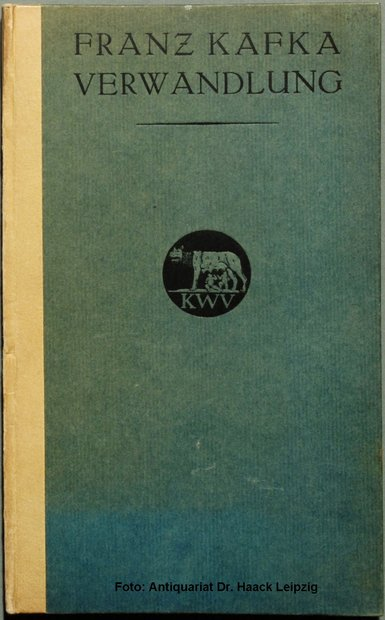
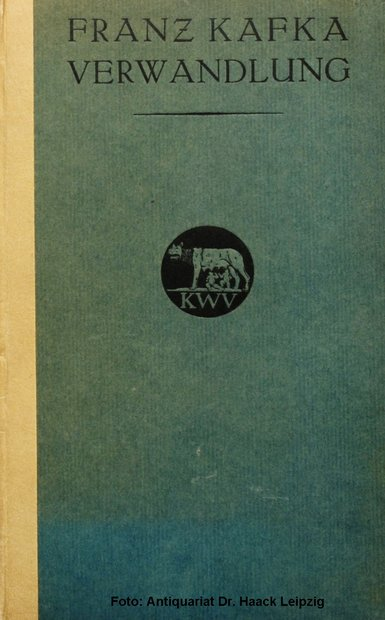
fix(art)+qa: blind A/B round-1 repairs — ink wins the cascade, real Tagore hand
Round 1 verdict was split (designer→baseline on a hierarchy regression;
art-director→candidate conditional), so the candidate failed the pre-set
pass rule. Every finding traced and repaired:

- Slip labels rendered EMPTY: pre-R10 state classes (and the late-declared
  work base rule) still painted light-on-dark text tones over the new paper
  chips, winning the cascade. All slip genres now resolve to ink; hover/
  selected modulate weight and a vermilion underline (new --slip-ink-strong /
  --vermilion tokens keep the token lint green).
- Selected-center stack: the collector's slip drops below the 감상인 frame
  into the dial's empty lower interior; the halo disc is silenced for the
  selected mark-bearer.
- Tagore's mark was an illegible traced scribble: rebuilt from the real 1920
  Bengali ink signature scan (Commons, PD) — bold, authentic strokes.
- Cover scans shaved 2.5%/side: catalog borders read as loose polaroids.

Protocol + round-1 verdicts recorded in art-r10/ab-review-protocol.md.

Changed region(s): [[0.0, 0.0, 1.0, 1.0], [0.4052, 0.3371, 0.6857, 0.521], [0.4987, 0.7048, 0.5299, 0.7355]]

diff --git a/literary-planet/src/globe/renderer.ts b/literary-planet/src/globe/renderer.ts
@@ -1625,6 +1625,8 @@ export function createGlobe(
 
   const tmpM = new THREE.Matrix4();
   const tmpV = new THREE.Vector3();
+  const tmpUp = new THREE.Vector3();
+  const tmpV2 = new THREE.Vector3();
   const hidden = new THREE.Matrix4().makeScale(0, 0, 0);
 
   function nodeVisible(a: Author): boolean {
@@ -1683,8 +1685,13 @@ export function createGlobe(
       const dimmed =
         s.selectedAuthorId !== null && id !== s.selectedAuthorId && !castSet.has(id);
       // the selected star's halo bows out with its emblem at reading depth —
-      // a soft blob over the towns was the last poster left (8th review)
-      const haloFade = id === s.selectedAuthorId ? 1 - nearGlyphK() : 1;
+      // a soft blob over the towns was the last poster left (8th review).
+      // A/B round 1: when the author's real mark is on the ground, the halo
+      // disc is one competitor too many under the 감상인 frame — silence it
+      // for the selected mark-bearer at every depth.
+      const selHasMark =
+        id === s.selectedAuthorId && Boolean(sealSprites.get(id)?.userData.isMark);
+      const haloFade = selHasMark ? 0.12 : id === s.selectedAuthorId ? 1 - nearGlyphK() : 1;
       (sprite.material as THREE.SpriteMaterial).opacity = (dimmed ? 0.1 : 0.32) * haloFade;
     }
 
@@ -2180,6 +2187,18 @@ export function createGlobe(
       if (regionRep?.get(a.regions[0] ?? "") === a.id) priority += 28;
       tmpV.set(p[0] * R, p[1] * R, p[2] * R).project(camera);
       if (tmpV.z > 1) continue;
+      let ly = ((-tmpV.y + 1) / 2) * h + 7;
+      if (state === "selected" && sealSprites.get(a.id)?.userData.isMark) {
+        // A/B round 1: the collector's slip goes UNDER the 감상인 frame, not
+        // across the signature — drop it into the dial's empty lower interior
+        // (frame half-height 1.95 < 2.8 < dial inner radius ~3.8 world units)
+        tmpUp.setFromMatrixColumn(camera.matrixWorld, 1);
+        tmpV2
+          .set(p[0] * R, p[1] * R, p[2] * R)
+          .addScaledVector(tmpUp, -2.8)
+          .project(camera);
+        if (tmpV2.z <= 1) ly = Math.max(ly, ((-tmpV2.y + 1) / 2) * h);
+      }
       items.push({
         id: a.id,
         text: i18n.authorLabel(a, s.locale),
@@ -2187,7 +2206,7 @@ export function createGlobe(
         size: a.tier === "anchor" ? "md" : "sm",
         priority,
         x: ((tmpV.x + 1) / 2) * w,
-        y: ((-tmpV.y + 1) / 2) * h + 7,
+        y: ly,
         state
       });
     }

diff --git a/literary-planet/src/styles.css b/literary-planet/src/styles.css
@@ -52,7 +52,9 @@
   /* R10 paper-planet: letterpress label slips + album mounts */
   --slip-bg: rgba(233, 223, 196, 0.92);
   --slip-ink: #2b2015;
+  --slip-ink-strong: #140e08;
   --slip-line: rgba(43, 32, 21, 0.4);
+  --vermilion: #c0392e; /* 감상인 — the selection channel's only user */
   --mount-shadow: rgba(0, 0, 0, 0.5);
   --debug-bg: rgba(10, 15, 18, 0.92);
   --debug-dim: #7d8a86;
@@ -668,6 +670,45 @@ a:hover {
   opacity: 0.62;
 }
 
+/* Slip-genre state colors (blind A/B round 1 finding): the pre-R10 state
+   classes painted light-on-dark text tones, which on paper chips rendered
+   as EMPTY slips — neighbors were literally blank beside their seals. On a
+   slip, state modulates ink weight and chip presence, never ink-to-light.
+   Same class pairs, declared later, so the cascade lands on ink. */
+.globe-label--author.is-normal,
+.globe-label--relation {
+  color: var(--slip-ink);
+}
+
+.globe-label--author.is-dim {
+  color: var(--slip-ink);
+}
+
+.globe-label--author.is-neighbor {
+  color: var(--slip-ink);
+  font-weight: 600;
+}
+
+.globe-label--author.is-hovered {
+  color: var(--slip-ink-strong);
+  font-weight: 600;
+  border-color: var(--slip-ink);
+}
+
+.globe-label--author.is-selected,
+.globe-label--work.is-selected {
+  color: var(--slip-ink);
+  font-weight: 700;
+  text-shadow: none;
+  border-bottom: 2px solid var(--vermilion);
+}
+
+.globe-label--work.is-interactive:hover,
+.globe-label--work.is-interactive:focus-visible {
+  color: var(--slip-ink-strong);
+  text-shadow: none;
+}
+
 /* R10 archival portrait mount: the photograph is pasted into the album */
 .portrait-plate--archival .portrait-mount {
   position: relative;
@@ -825,7 +866,9 @@ a:hover {
   font-style: italic;
   font-size: 13px; /* was 11.5 — floor */
   letter-spacing: 0.04em;
-  color: var(--text-dim);
+  /* slip ink, declared HERE: this base rule sits after the R10 slip block,
+     so an ink override there silently loses the cascade (A/B round 1 bis) */
+  color: var(--slip-ink);
   opacity: 0.9;
 }
 

diff --git a/literary-planet/art-r10/build-art-assets.py b/literary-planet/art-r10/build-art-assets.py
@@ -51,16 +51,26 @@ def save_mark(author, im, target_h=420):
 
 
 # --- marks -------------------------------------------------------------------
-# Kafka / Tagore: rasterized signature SVGs (black strokes, transparent bg)
-for author, raw in (
-    ("franz-kafka", "franz-kafka-signature.png"),
-    ("rabindranath-tagore", "rabindranath-tagore-signature.png"),
-):
+# Kafka: rasterized signature SVG (black strokes, transparent bg)
+for author, raw in (("franz-kafka", "franz-kafka-signature.png"),):
     im = Image.open(os.path.join(RAW, raw)).convert("RGBA")
     # recolor strokes to warm ink, keep the anti-aliased alpha
     solid = Image.new("RGBA", im.size, INK + (255,))
     solid.putalpha(im.getchannel("A"))
     save_mark(author, solid)
+
+# Tagore: the traced SVG reads as scribble at map scale (A/B round 1 verdict)
+# — use the REAL 1920 Bengali ink signature scan instead: authentic stroke
+# weight and density carry the hand where the thin trace could not.
+tagore = Image.open(os.path.join(ST, "rabindranath-tagore", "signature_bengali_1920.jpg")).convert("RGB")
+tagore = ImageOps.autocontrast(tagore, cutoff=1)
+def scan_ink_alpha(im, thresh=190, ramp=2.2):
+    g = ImageOps.grayscale(im)
+    a = g.point(lambda v: min(255, int((thresh - v) * ramp)) if v < thresh else 0)
+    out = Image.new("RGBA", im.size, INK + (0,))
+    out.putalpha(a)
+    return out
+save_mark("rabindranath-tagore", tight_bbox(scan_ink_alpha(tagore)))
 
 # Soseki: brush signature 漱石 + the two red kanji seals, cut from the real
 # hanging-scroll scan (320×1089). Ink becomes tintless warm-black; the seal
@@ -131,6 +141,10 @@ COVERS = {
 }
 for work, (rel, lic) in COVERS.items():
     im = Image.open(os.path.join(ST, rel)).convert("RGB")
+    # shave scan margins (2.5%/side) — white catalog borders read as loose
+    # polaroids on the boards instead of printed covers (A/B round 1)
+    mx, my = round(im.width * 0.025), round(im.height * 0.025)
+    im = im.crop((mx, my, im.width - mx, im.height - my))
     im.thumbnail((420, 620), Image.LANCZOS)
     f = f"covers/{work}.jpg"
     im.save(os.path.join(OUT, f), quality=85)

diff --git a/literary-planet/art-r10/ab-review-protocol.md b/literary-planet/art-r10/ab-review-protocol.md
@@ -1,0 +1,68 @@
+# R10 blind A/B visual review — protocol
+
+Two capture sets, identical choreography (`art-r10/capture-slice.mjs`,
+3 slice authors × far/mid/near, same deep links, same waits):
+
+- **set-x** = candidate (paper-planet build; reviewers are NOT told this)
+- **set-y** = baseline (frozen functional build @1d00a28; not told either)
+
+Blinding: frames are copied to a neutral session directory (`ab-review/set-x`,
+`ab-review/set-y`) so no path or filename reveals which set is which, and the
+set→build mapping above is withheld from reviewers (it is recorded here for
+the audit trail only). x/y assignment is anti-chronological on purpose, to
+counter any "the second set must be the newer one" guess.
+
+Reviewers: 2 independent fresh-context agents (graphic-designer,
+visual-art-director), no implementation notes, no repo access instructions —
+images only. Neither sees the other's verdict.
+
+Questions (per author, comparing the same LOD pair across sets, then overall):
+
+1. 위계 — 어느 세트에서 "이 화면의 제1주인공"과 "다음에 할 행동"이 더 빨리
+   읽히는가?
+2. 의미 — 어느 세트가 "여기는 다른 곳 아닌 바로 이 작가의 영토"임을 더
+   구체적으로 전달하는가? 화면의 형태·색·높이 가운데 정보를 나르지 않는
+   장식이 있으면 지적하라.
+3. 미감 — 어느 쪽이 출시 가능한 미감에 가까운가? 약점을 세트별로 최소 1개씩.
+4. 종합 — X/Y 중 하나를 고르고 이유를 서술하라. 무승부 금지.
+
+Pass rule (set in advance): the candidate ships only if BOTH reviewers pick
+its set on question 4 AND neither finds a hierarchy regression (question 1)
+in any pair. Weaknesses found in the winning set are recorded as follow-ups,
+not silently dropped.
+
+## Results
+
+### Round 1 (2026-08-18) — SPLIT 1:1 → candidate FAILS the pre-set rule
+
+- graphic-designer → **Y (baseline)**. Decisive finding: in all three mid
+  frames the candidate's neighbor/bystander label slips rendered as EMPTY
+  paper chips — a hierarchy regression ("다음 행동이 안 읽히는 건 기능
+  결함"). Root cause (found in code after the verdict): pre-R10 state
+  classes (`.is-neighbor`/`.is-dim`/`.is-normal`) still painted
+  light-on-dark text tones over the new light slips at higher cascade
+  priority. A bug, not an inherent trade-off of the direction.
+- visual-art-director → **X (candidate), conditional**. "3번 중 2번 성공한
+  완성도 문제이지 콘셉트 실패가 아니다." Conditions: (1) Tagore's mark is
+  an illegible scribble — replace with real handwriting; (2) reduce the
+  selected-center stack (signature+frame+dial+slip+disc); (3) unify the
+  work-marker language. Also caught a BASELINE bug (unframed 魯 glyph
+  leaking at screen edge in set-y natsume-soseki-1mid) — evidence the
+  reviewer was genuinely blind.
+- Both agreed the candidate's place-specificity (real hands, real paper,
+  culture-correct marks) is ahead; both located the loss in execution,
+  not concept. The designer's own synthesis suggestion ("Y의 라벨 프레임
+  안에 X의 장소 텍스처") is exactly what fixing the label bug yields.
+
+Repairs before round 2: slip-genre state colors re-inked (authors, works,
+relations); collector's slip moved below the 감상인 frame; halo disc
+silenced for the selected mark-bearer; Tagore mark rebuilt from the real
+1920 Bengali ink scan (955×277 Commons, PD) instead of the traced SVG;
+cover scans shaved 2.5%/side (catalog borders read as loose polaroids).
+Work-marker unification beyond the shared board construction was NOT
+attempted — distorting real cover aspects would violate the charter's
+nothing-synthetic rule; recorded as a accepted-variance decision.
+
+### Round 2 — fresh reviewers, same protocol
+
+(appended after the review runs)
